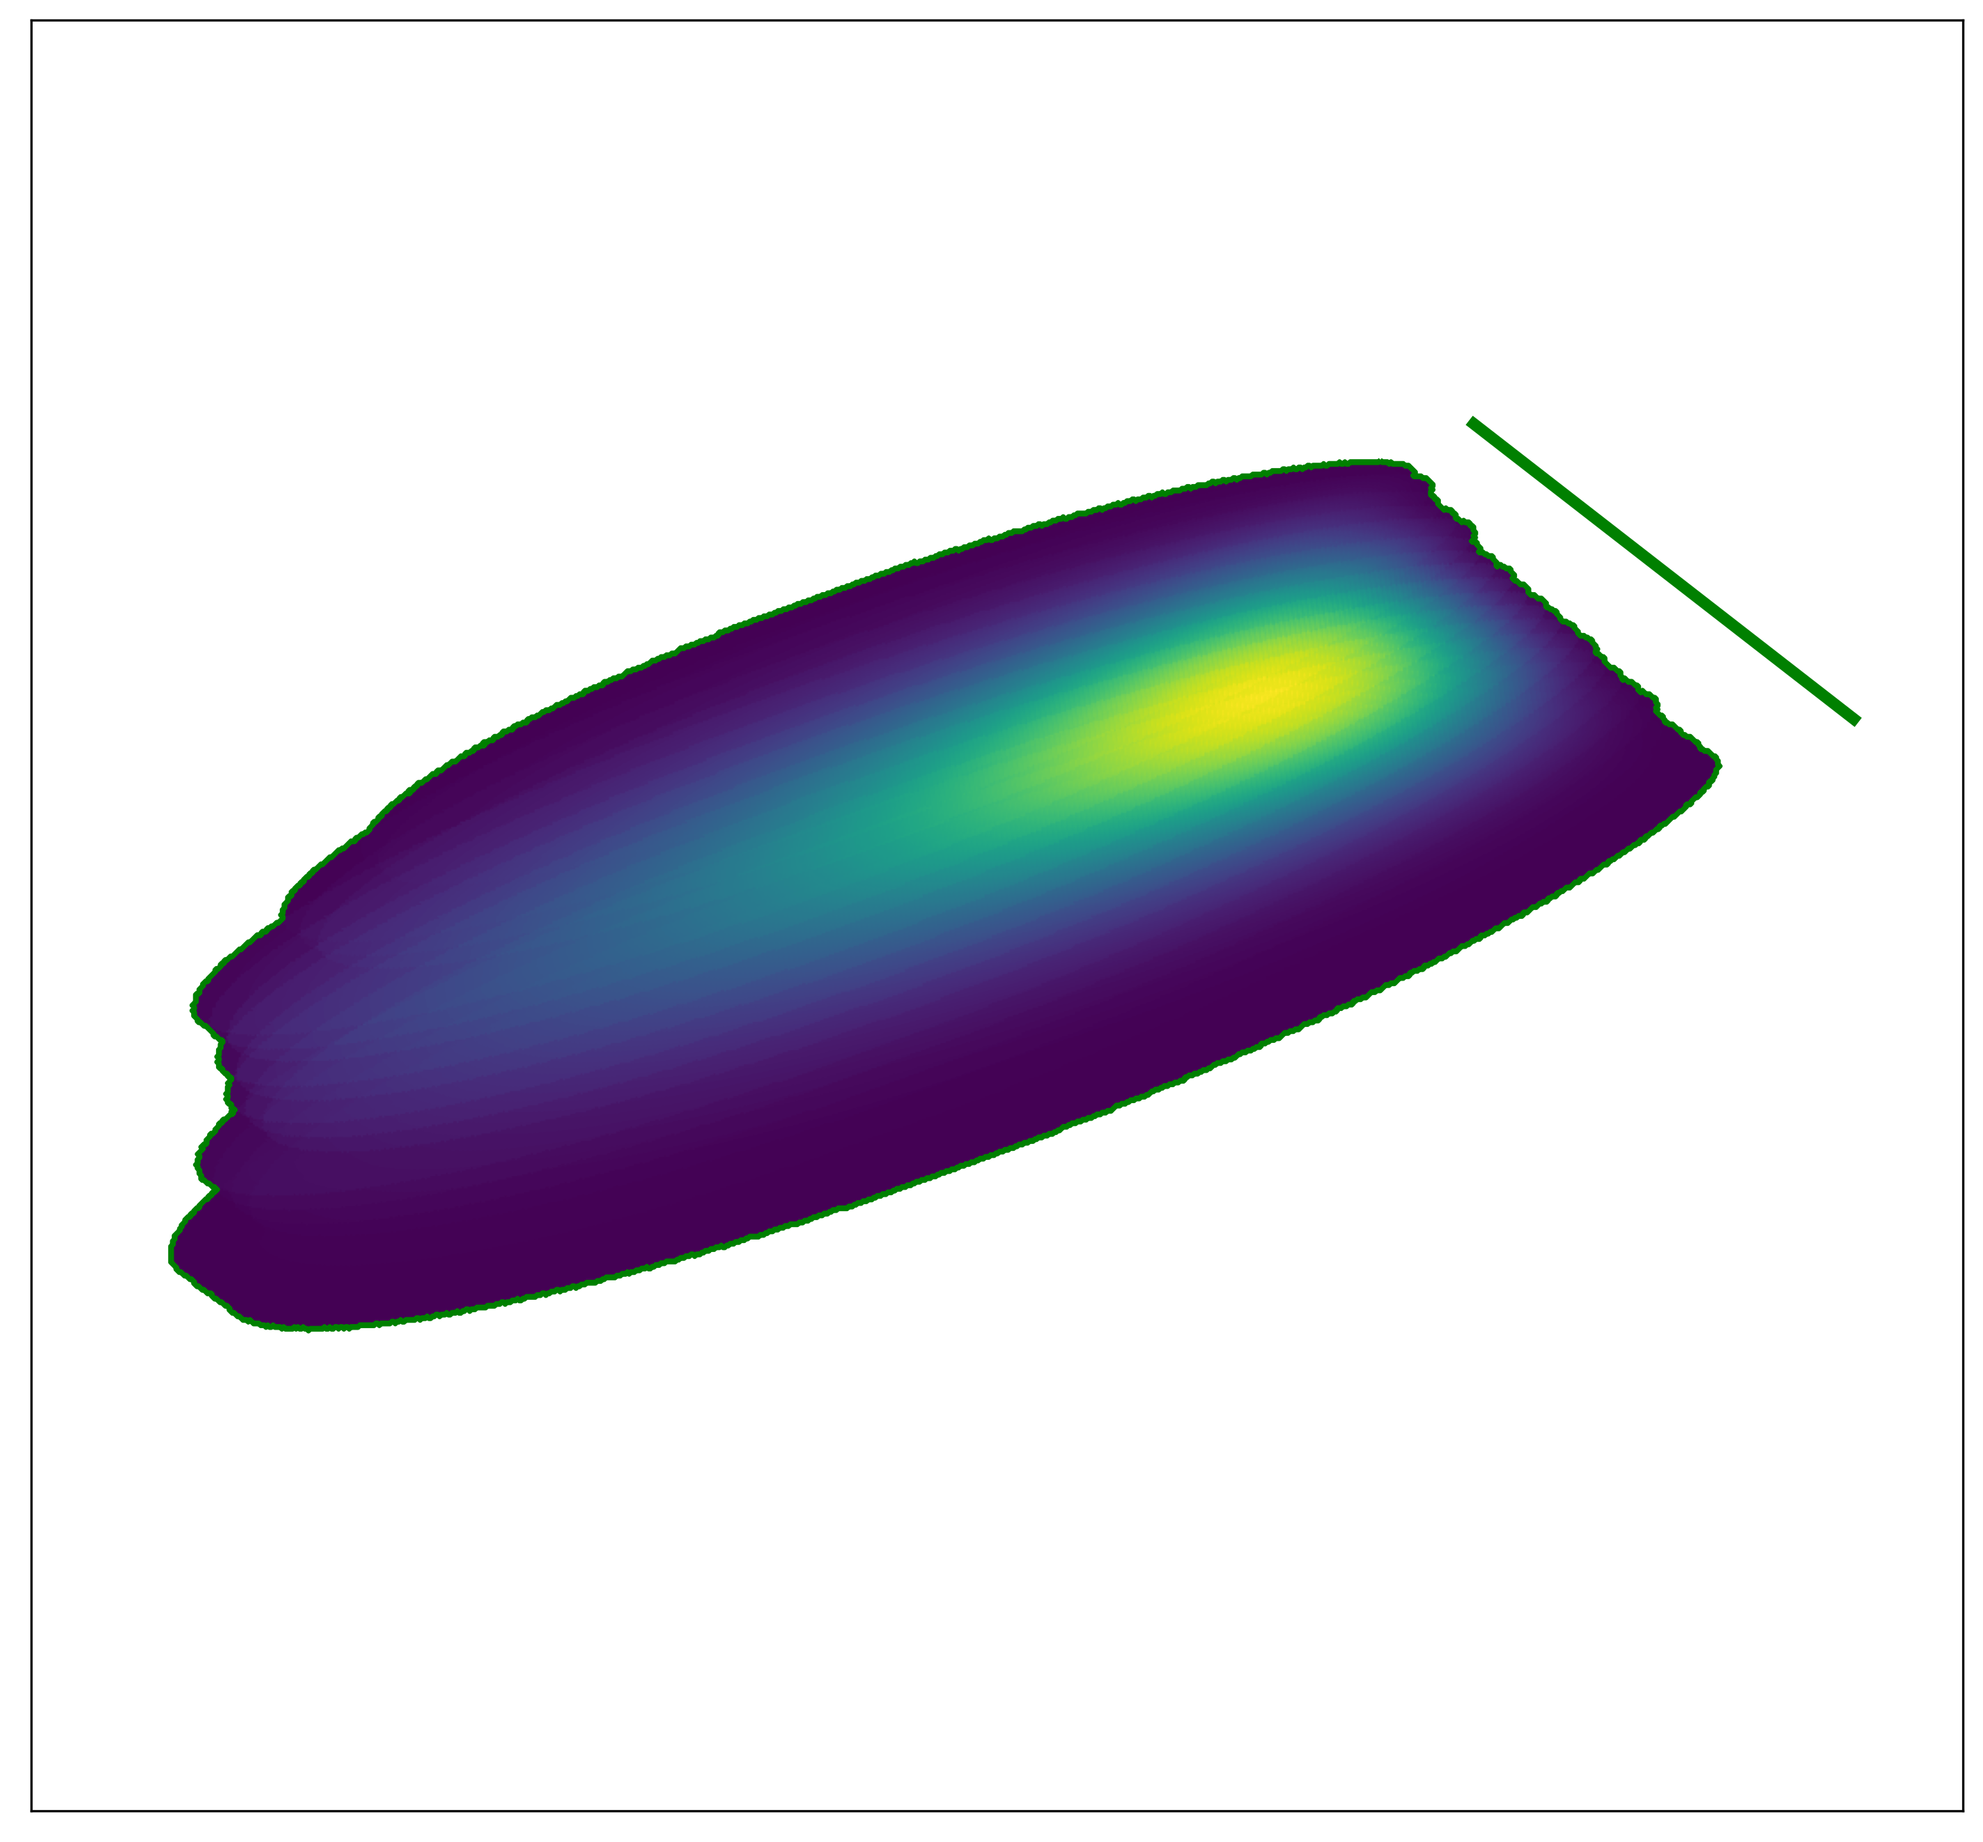
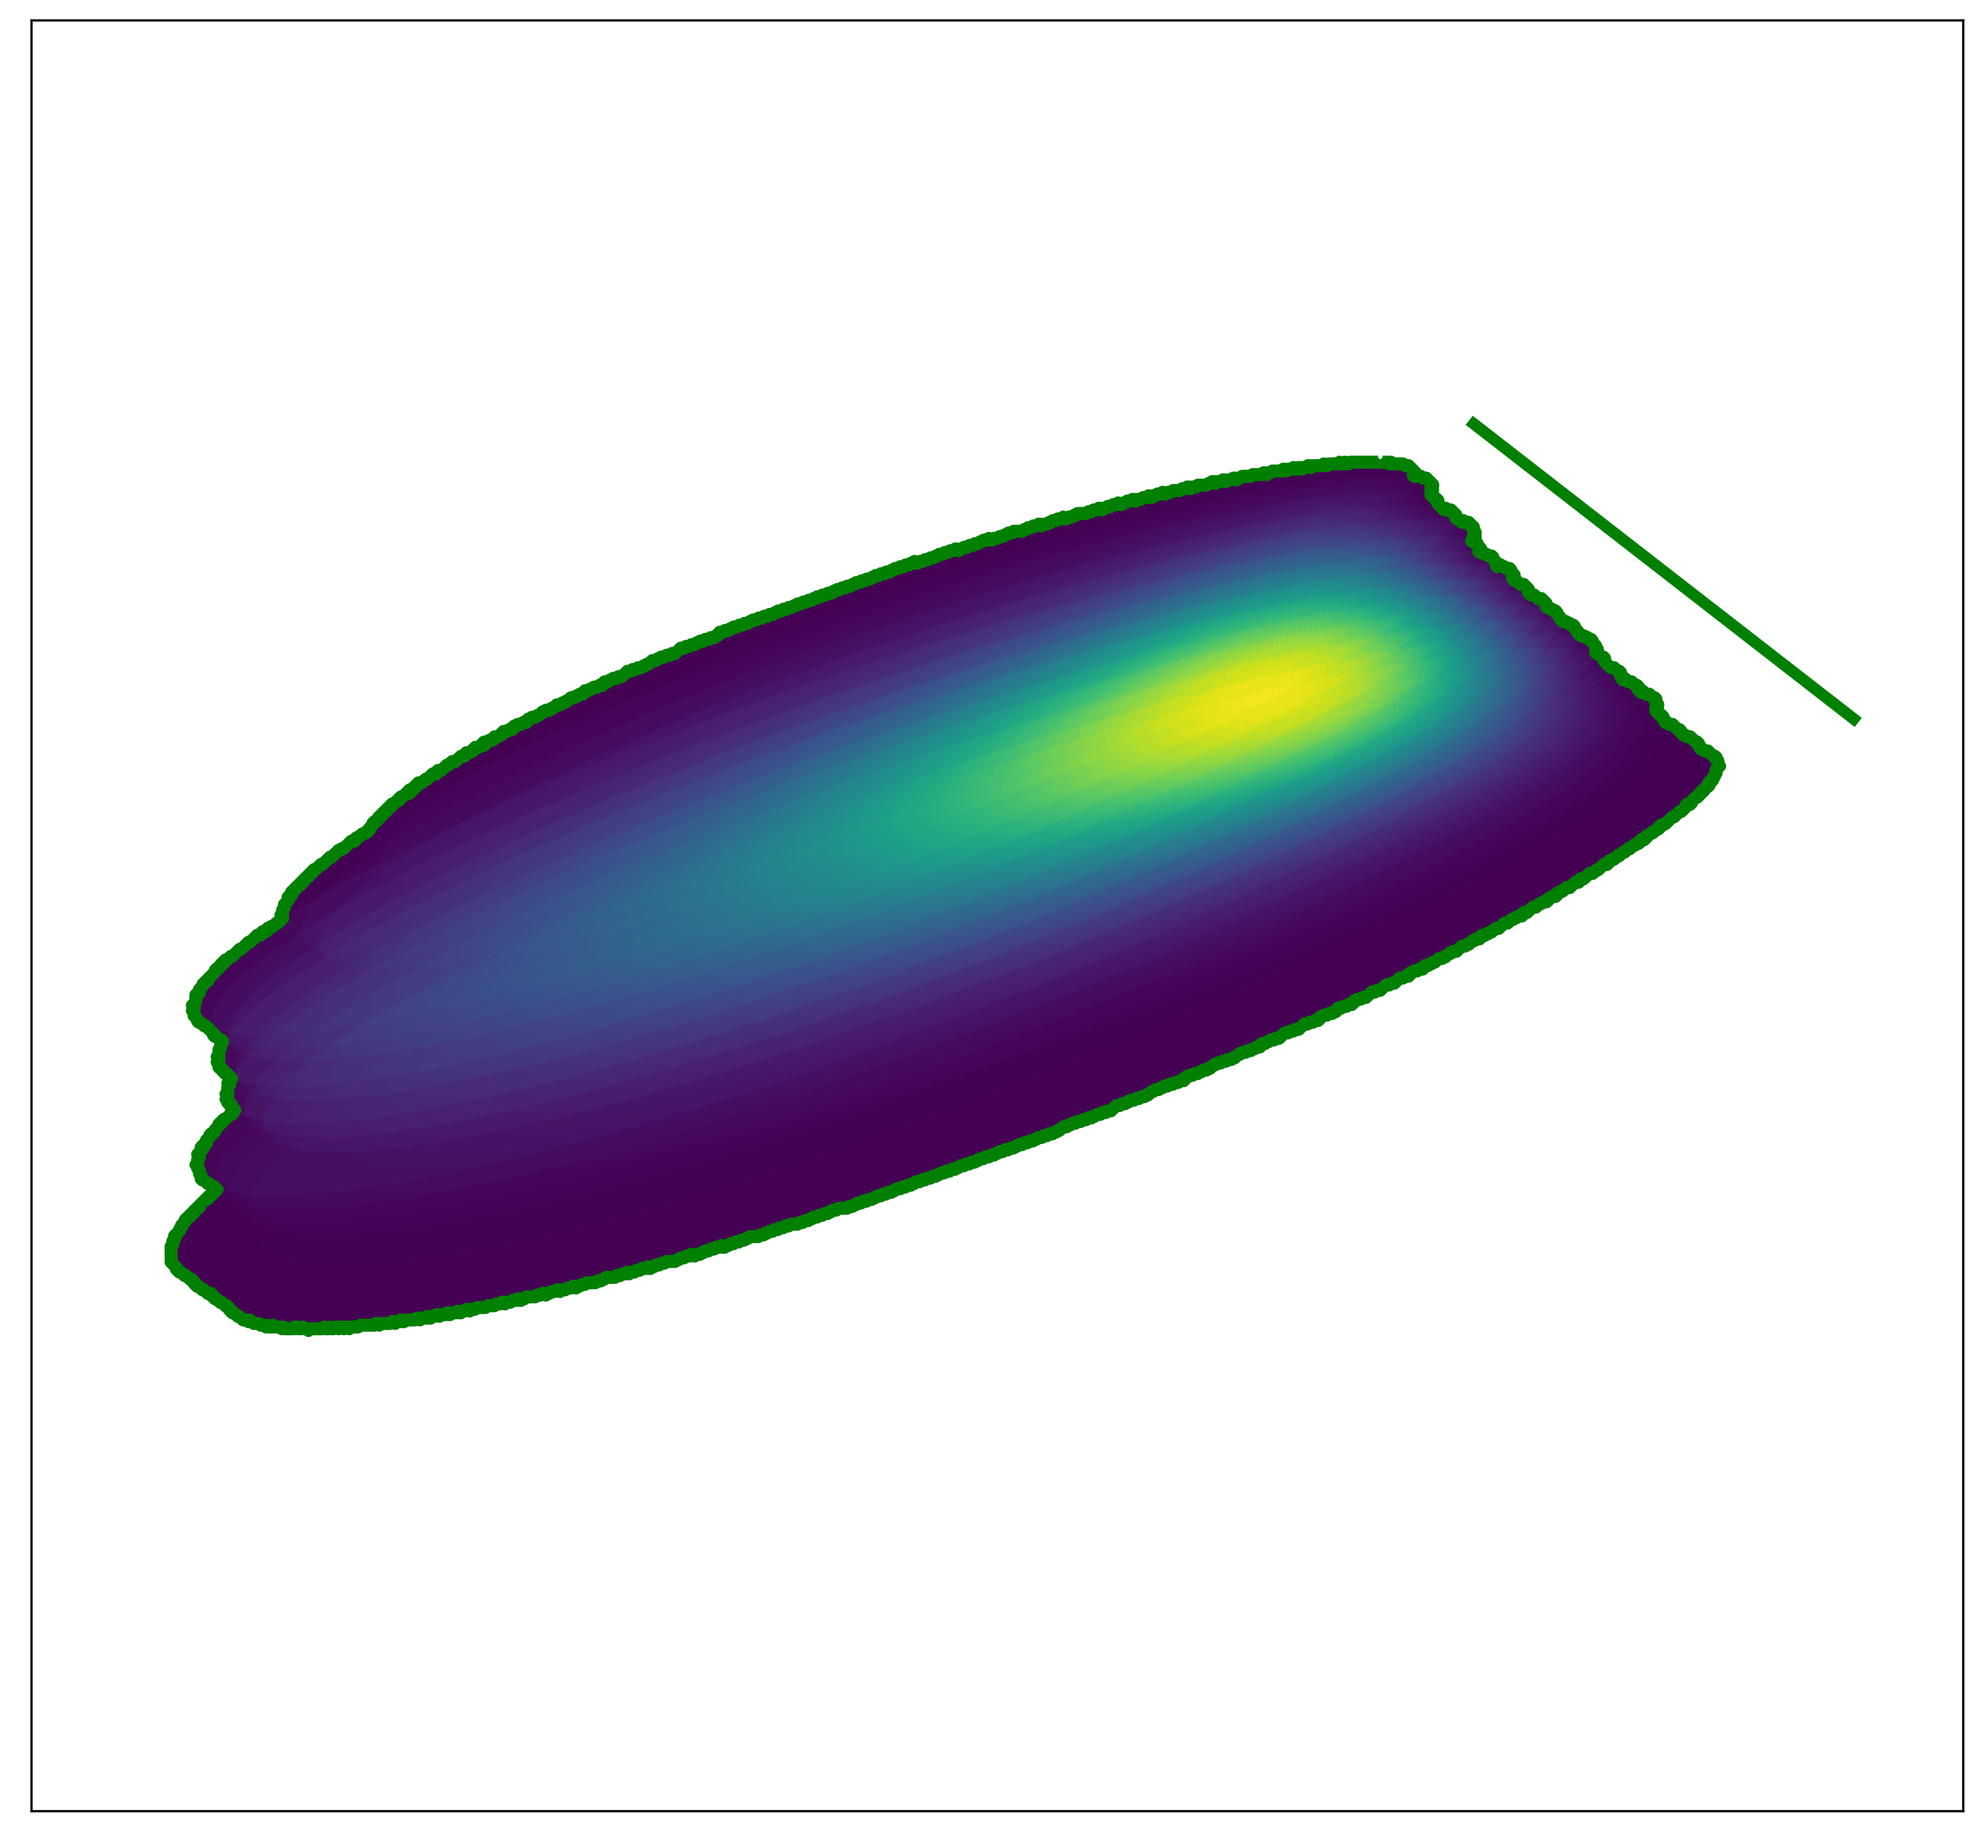
Increase line width panel 4

diff --git a/scint_plots/sa_demonstration/sa_demonstration_funs.py b/scint_plots/sa_demonstration/sa_demonstration_funs.py
@@ -397,7 +397,7 @@ def panel_four_cartoon(file_list, save_path):
         # plot lines
         colour_here = 'green'
         rasterio.plot.show(bool_arr, transform=raster.transform, contour=True, contour_label_kws={}, ax=ax,
-                           colors=[colour_here])
+                           colors=[colour_here], linewidths=4)
 
     # plot path
     path_shp_file_path = save_path + '../sa_position_and_lc_fraction/scint_path_shp/'

diff --git a/scint_plots/sa_demonstration/main_sa_demonstration_cartoons.py b/scint_plots/sa_demonstration/main_sa_demonstration_cartoons.py
@@ -10,8 +10,8 @@ save_path = os.getcwd().replace('\\', '/') + '/'
 # panel_number = 1
 # panel_number = 2
 # panel_number = 3
-# panel_number = 4
-panel_number = 5
+panel_number = 4
+# panel_number = 5
 
 sa_demonstration_funs.run_panel_figs_cartoons(panel_number=panel_number, save_path=save_path)
 # """
